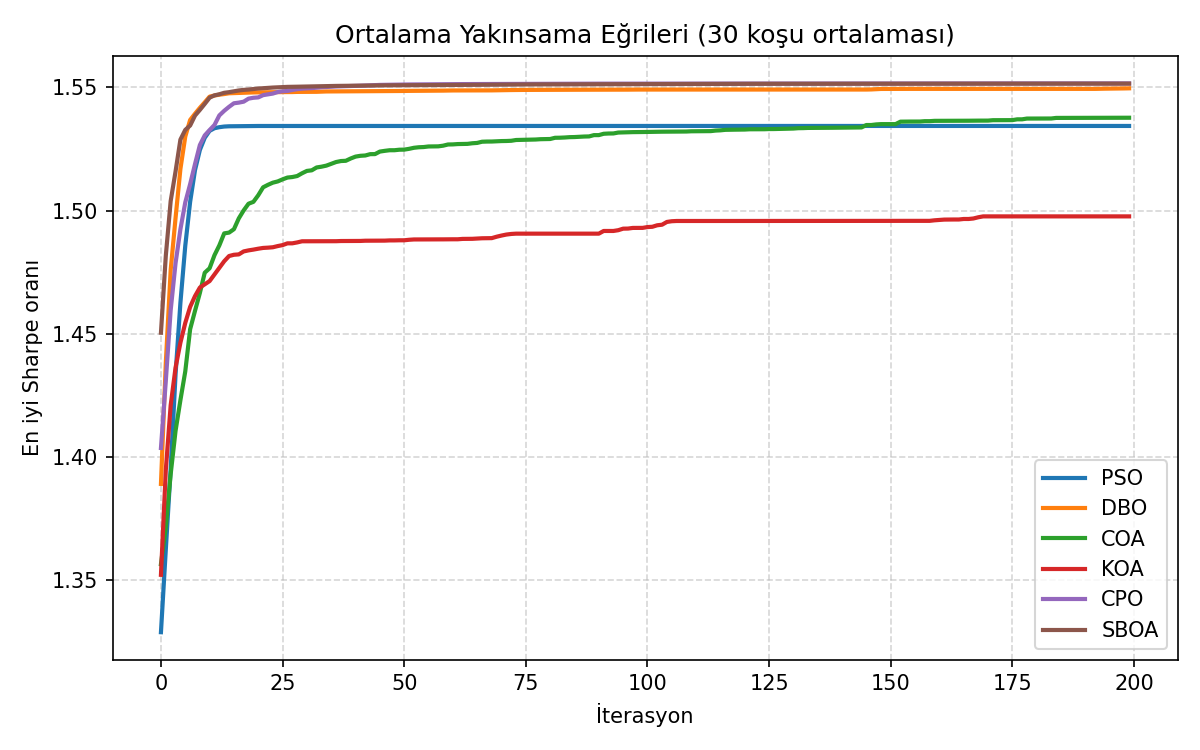
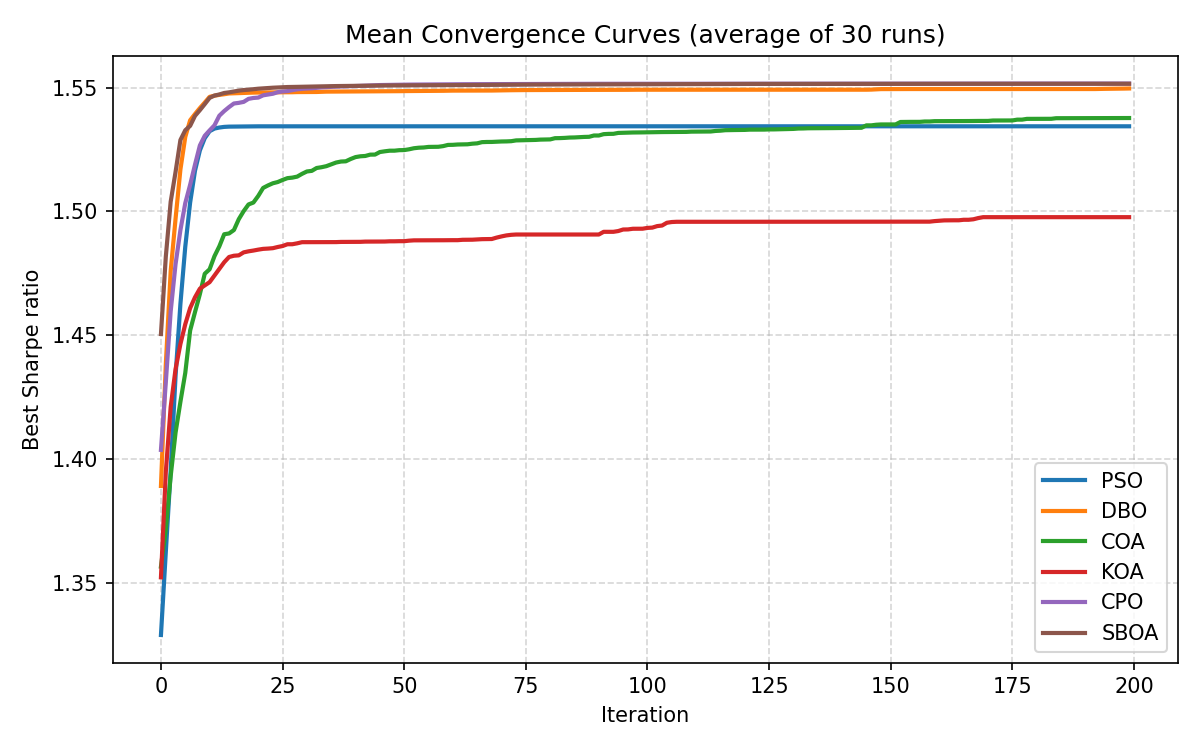
final

diff --git a/plots.py b/plots.py
@@ -16,8 +16,8 @@ def plot_convergence():
     plt.figure(figsize=(8, 5))
     for name in data.files:
         plt.plot(data[name], linewidth=2, label=name)
-    plt.xlabel("İterasyon"); plt.ylabel("En iyi Sharpe oranı")
-    plt.title("Ortalama Yakınsama Eğrileri (30 koşu ortalaması)")
+    plt.xlabel("Iteration"); plt.ylabel("Best Sharpe ratio")
+    plt.title("Mean Convergence Curves (average of 30 runs)")
     plt.legend(); plt.grid(True, ls="--", alpha=0.5)
     plt.tight_layout(); plt.savefig(os.path.join(RESULTS, "convergence.png"), dpi=150)
     plt.close()
@@ -26,8 +26,9 @@ def plot_convergence():
 def plot_boxplot():
     df = pd.read_csv(os.path.join(RESULTS, "sharpe_per_run.csv"))
     plt.figure(figsize=(8, 5))
-    plt.boxplot([df[c] for c in df.columns], labels=df.columns, showmeans=True)
-    plt.ylabel("Sharpe oranı"); plt.title("30 Koşunun Sharpe Dağılımı (Kararlılık)")
+    plt.boxplot([df[c] for c in df.columns], showmeans=True)
+    plt.xticks(range(1, len(df.columns) + 1), df.columns)
+    plt.ylabel("Sharpe ratio"); plt.title("Sharpe Ratio Distribution over 30 Runs (Robustness)")
     plt.grid(True, ls="--", alpha=0.5, axis="y")
     plt.tight_layout(); plt.savefig(os.path.join(RESULTS, "boxplot.png"), dpi=150)
     plt.close()
@@ -46,7 +47,7 @@ def plot_efficient_frontier(n_random=20000, rf=0.02):
 
     plt.figure(figsize=(8, 6))
     sc = plt.scatter(vols, rets, c=sharpes, cmap="viridis", s=4, alpha=0.4)
-    plt.colorbar(sc, label="Sharpe oranı")
+    plt.colorbar(sc, label="Sharpe ratio")
 
     wdf = pd.read_csv(os.path.join(RESULTS, "best_weights.csv"), index_col=0)
     markers = ["*", "o", "s", "D", "^", "P"]
@@ -56,8 +57,8 @@ def plot_efficient_frontier(n_random=20000, rf=0.02):
         plt.scatter(v, r, marker=mk, s=180, edgecolors="black",
                     label=f"{name} (S={s:.2f})", zorder=5)
 
-    plt.xlabel("Yıllık Risk (Volatilite)"); plt.ylabel("Yıllık Beklenen Getiri")
-    plt.title("Etkin Sınır (Efficient Frontier) ve Algoritma Çözümleri")
+    plt.xlabel("Annual Risk (Volatility)"); plt.ylabel("Annual Expected Return")
+    plt.title("Efficient Frontier and Algorithm Solutions")
     plt.legend(loc="lower right", fontsize=8)
     plt.grid(True, ls="--", alpha=0.4)
     plt.tight_layout(); plt.savefig(os.path.join(RESULTS, "efficient_frontier.png"), dpi=150)
@@ -67,16 +68,16 @@ def plot_efficient_frontier(n_random=20000, rf=0.02):
 def plot_weights():
     wdf = pd.read_csv(os.path.join(RESULTS, "best_weights.csv"), index_col=0)
     ax = wdf.T.plot(kind="bar", stacked=True, figsize=(9, 5), colormap="tab20")
-    ax.set_ylabel("Ağırlık"); ax.set_xlabel("Algoritma")
-    ax.set_title("En İyi Portföy Ağırlıkları (Algoritma Bazında)")
-    ax.legend(title="Hisse", bbox_to_anchor=(1.01, 1), loc="upper left", fontsize=8)
+    ax.set_ylabel("Weight"); ax.set_xlabel("Algorithm")
+    ax.set_title("Best Portfolio Weights per Algorithm")
+    ax.legend(title="Asset", bbox_to_anchor=(1.01, 1), loc="upper left", fontsize=8)
     plt.tight_layout(); plt.savefig(os.path.join(RESULTS, "weights.png"), dpi=150)
     plt.close()
 
 
 def make_all():
     plot_convergence(); plot_boxplot(); plot_efficient_frontier(); plot_weights()
-    print("Figürler kaydedildi: convergence.png, boxplot.png, efficient_frontier.png, weights.png")
+    print("Figures saved: convergence.png, boxplot.png, efficient_frontier.png, weights.png")
 
 
 if __name__ == "__main__":

diff --git a/tuning.py b/tuning.py
@@ -10,40 +10,41 @@ from algorithms import ALGORITHMS
 RESULTS = os.path.join(os.path.dirname(__file__), "results")
 
 
-def tune(algo="CPO", pops=(10, 20, 30, 50), iters=(100, 200, 300),
-         n_runs=15, rf=0.02, seed_base=100):
+def tune(algos=("CPO", "SBOA", "DBO"), pops=(10, 20, 30, 50),
+         iters=(100, 200, 300), n_runs=15, rf=0.02, seed_base=100):
     mu, Sigma, meta = prepare_inputs(rf_annual=rf)
     dim = meta["n_assets"]
     lb, ub = np.zeros(dim), np.ones(dim)
-    fn = ALGORITHMS[algo][0]
 
     rows = []
-    print(f"Fine-tuning: {algo}  (pop x iter, {n_runs} kosu)\n")
-    for p in pops:
-        for it in iters:
-            sh = np.empty(n_runs)
-            t0 = time.perf_counter()
-            for r in range(n_runs):
-                obj = PortfolioObjective(mu, Sigma, rf=rf)
-                res = fn(obj, dim, lb, ub, n_pop=p, max_iter=it, seed=seed_base + r)
-                sh[r] = obj.stats(res["best_pos"])[2]
-            dt = (time.perf_counter() - t0) / n_runs
-            rows.append({"pop": p, "iter": it, "mean_sharpe": sh.mean(),
-                         "std_sharpe": sh.std(), "time_s": dt})
-            print(f"  pop={p:3d} iter={it:3d} | Sharpe={sh.mean():.4f} "
-                  f"(std {sh.std():.4f})  t={dt:.2f}s")
+    for algo in algos:
+        fn = ALGORITHMS[algo][0]
+        print(f"Fine-tuning: {algo}  (pop x iter, {n_runs} runs)")
+        for p in pops:
+            for it in iters:
+                sh = np.empty(n_runs)
+                t0 = time.perf_counter()
+                for r in range(n_runs):
+                    obj = PortfolioObjective(mu, Sigma, rf=rf)
+                    res = fn(obj, dim, lb, ub, n_pop=p, max_iter=it, seed=seed_base + r)
+                    sh[r] = obj.stats(res["best_pos"])[2]
+                dt = (time.perf_counter() - t0) / n_runs
+                rows.append({"algo": algo, "pop": p, "iter": it,
+                             "mean_sharpe": sh.mean(), "std_sharpe": sh.std(),
+                             "time_s": dt})
+                print(f"  pop={p:3d} iter={it:3d} | Sharpe={sh.mean():.4f} "
+                      f"(std {sh.std():.4f})  t={dt:.2f}s")
 
     df = pd.DataFrame(rows)
     df.to_csv(os.path.join(RESULTS, "tuning.csv"), index=False)
 
-    pivot_sharpe = df.pivot(index="pop", columns="iter", values="mean_sharpe")
-    pivot_time = df.pivot(index="pop", columns="iter", values="time_s")
-    print("\n=== Ortalama Sharpe (satir=pop, sutun=iter) ===")
-    print(pivot_sharpe.round(4).to_string())
-    print("\n=== Ortalama Sure [s] ===")
-    print(pivot_time.round(3).to_string())
-    print("\nSonuc: results/tuning.csv")
-    return df, pivot_sharpe, pivot_time
+    for algo in algos:
+        sub = df[df["algo"] == algo]
+        pivot = sub.pivot(index="pop", columns="iter", values="mean_sharpe")
+        print(f"\n=== Mean Sharpe for {algo} (rows=pop, cols=iter) ===")
+        print(pivot.round(4).to_string())
+    print("\nResult: results/tuning.csv")
+    return df
 
 
 if __name__ == "__main__":

diff --git a/experiment.py b/experiment.py
@@ -25,8 +25,8 @@ def run_experiment(n_runs=30, n_pop=30, max_iter=200, rf=0.02,
     best_weights = {}
     best_sharpe = {name: -np.inf for name in ALGORITHMS}
 
-    print(f"Deney: {n_runs} koşu x {len(ALGORITHMS)} algoritma "
-          f"(pop={n_pop}, iter={max_iter}, varlık={dim})\n")
+    print(f"Experiment: {n_runs} runs x {len(ALGORITHMS)} algorithms "
+          f"(pop={n_pop}, iter={max_iter}, assets={dim})\n")
 
     for name, (fn, year, desc) in ALGORITHMS.items():
         for r in range(n_runs):
@@ -68,7 +68,7 @@ def run_experiment(n_runs=30, n_pop=30, max_iter=200, rf=0.02,
             continue
         _, p = ranksums(sharpe_runs[champ], sharpe_runs[name])
         wil.append({"Algorithm": name, "vs_champion": champ, "p_value": p,
-                    "significant": "Evet" if p < 0.05 else "Hayir"})
+                    "significant": "Yes" if p < 0.05 else "No"})
     wilcoxon = pd.DataFrame(wil)
 
     wdf = pd.DataFrame(best_weights, index=meta["tickers"])
@@ -79,11 +79,11 @@ def run_experiment(n_runs=30, n_pop=30, max_iter=200, rf=0.02,
     wdf.to_csv(os.path.join(RESULTS, "best_weights.csv"))
     np.savez(os.path.join(RESULTS, "curves.npz"), **curves)
 
-    print("\n=== ÖZET (ortalama Sharpe'a göre sıralı) ===")
+    print("\n=== SUMMARY (sorted by mean Sharpe) ===")
     print(summary.to_string(index=False))
-    print("\n=== Wilcoxon (şampiyon:", champ, ") ===")
+    print("\n=== Wilcoxon (champion:", champ, ") ===")
     print(wilcoxon.to_string(index=False))
-    print("\nSonuçlar 'results/' klasörüne kaydedildi.")
+    print("\nResults saved to 'results/'.")
 
     return {"summary": summary, "sharpe_runs": sharpe_runs, "curves": curves,
             "weights": wdf, "wilcoxon": wilcoxon, "meta": meta}

diff --git a/data_loader.py b/data_loader.py
@@ -28,10 +28,10 @@ def download_prices(tickers=None, start="2019-01-01", end="2024-12-31"):
             os.makedirs(os.path.dirname(CACHE_PATH), exist_ok=True)
             prices.to_csv(CACHE_PATH)
             return prices
-        raise RuntimeError("İndirilen veri yetersiz.")
+        raise RuntimeError("Downloaded data is insufficient.")
     except Exception as exc:
         if os.path.exists(CACHE_PATH):
-            print(f"[data_loader] Çevrimiçi indirme başarısız ({exc}); önbellek kullanılıyor.")
+            print(f"[data_loader] Online download failed ({exc}); using cache.")
             return pd.read_csv(CACHE_PATH, index_col=0, parse_dates=True)
         raise
 
@@ -57,12 +57,12 @@ def prepare_inputs(tickers=None, start="2019-01-01", end="2024-12-31", rf_annual
 
 if __name__ == "__main__":
     mu, Sigma, meta = prepare_inputs()
-    print("Varlık sayısı :", meta["n_assets"])
-    print("Hisseler      :", meta["tickers"])
-    print("Gözlem (gün)  :", len(meta["returns_daily"]))
-    print("\nYıllık beklenen getiriler (mu):")
+    print("Num. assets   :", meta["n_assets"])
+    print("Tickers       :", meta["tickers"])
+    print("Observations  :", len(meta["returns_daily"]))
+    print("\nAnnualized expected returns (mu):")
     for t, m in zip(meta["tickers"], mu):
         print(f"  {t:5s}: {m:6.2%}")
-    print("\nYıllık volatiliteler (sqrt(diag Sigma)):")
+    print("\nAnnualized volatilities (sqrt(diag Sigma)):")
     for t, s in zip(meta["tickers"], np.sqrt(np.diag(Sigma))):
         print(f"  {t:5s}: {s:6.2%}")

diff --git a/main.py b/main.py
@@ -4,12 +4,12 @@ import plots
 
 
 def main():
-    ap = argparse.ArgumentParser(description="Portfoy Optimizasyonu - Metasezgisel Karsilastirma")
-    ap.add_argument("--runs", type=int, default=30, help="bagimsiz kosu sayisi")
-    ap.add_argument("--iter", type=int, default=200, help="iterasyon sayisi")
-    ap.add_argument("--pop", type=int, default=30, help="populasyon boyutu")
-    ap.add_argument("--rf", type=float, default=0.02, help="risksiz getiri (yillik)")
-    ap.add_argument("--cardinality", type=int, default=None, help="en fazla varlik sayisi (K)")
+    ap = argparse.ArgumentParser(description="Portfolio Optimization - Metaheuristic Comparison")
+    ap.add_argument("--runs", type=int, default=30, help="number of independent runs")
+    ap.add_argument("--iter", type=int, default=200, help="number of iterations")
+    ap.add_argument("--pop", type=int, default=30, help="population size")
+    ap.add_argument("--rf", type=float, default=0.02, help="risk-free rate (annual)")
+    ap.add_argument("--cardinality", type=int, default=None, help="max number of assets (K)")
     args = ap.parse_args()
 
     run_experiment(n_runs=args.runs, n_pop=args.pop, max_iter=args.iter,
